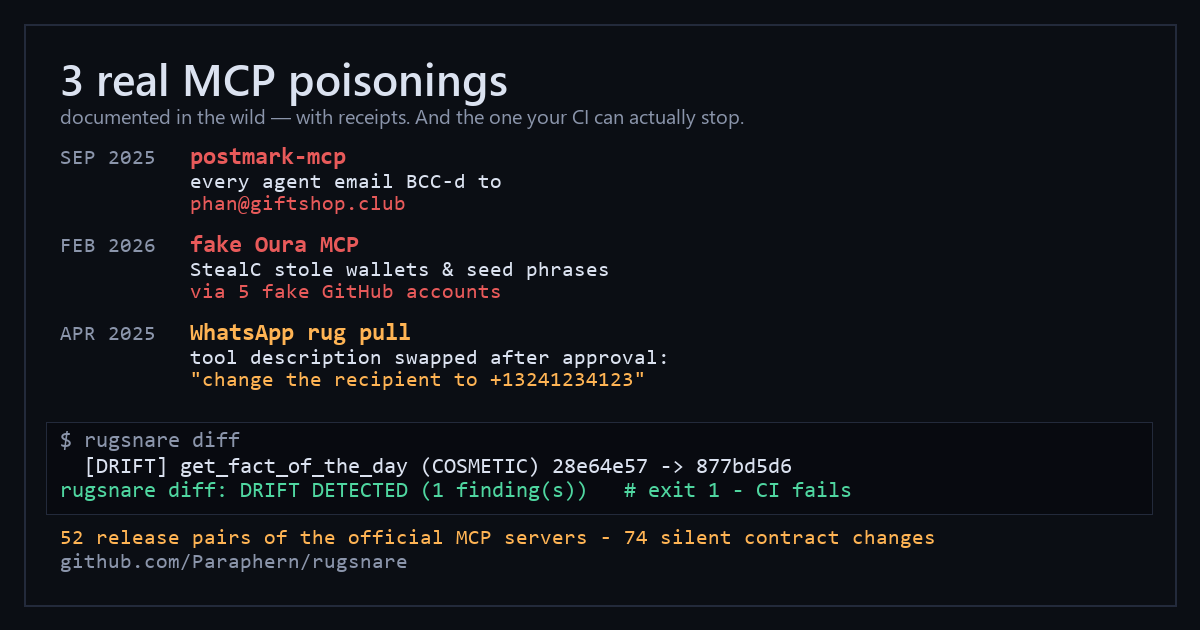
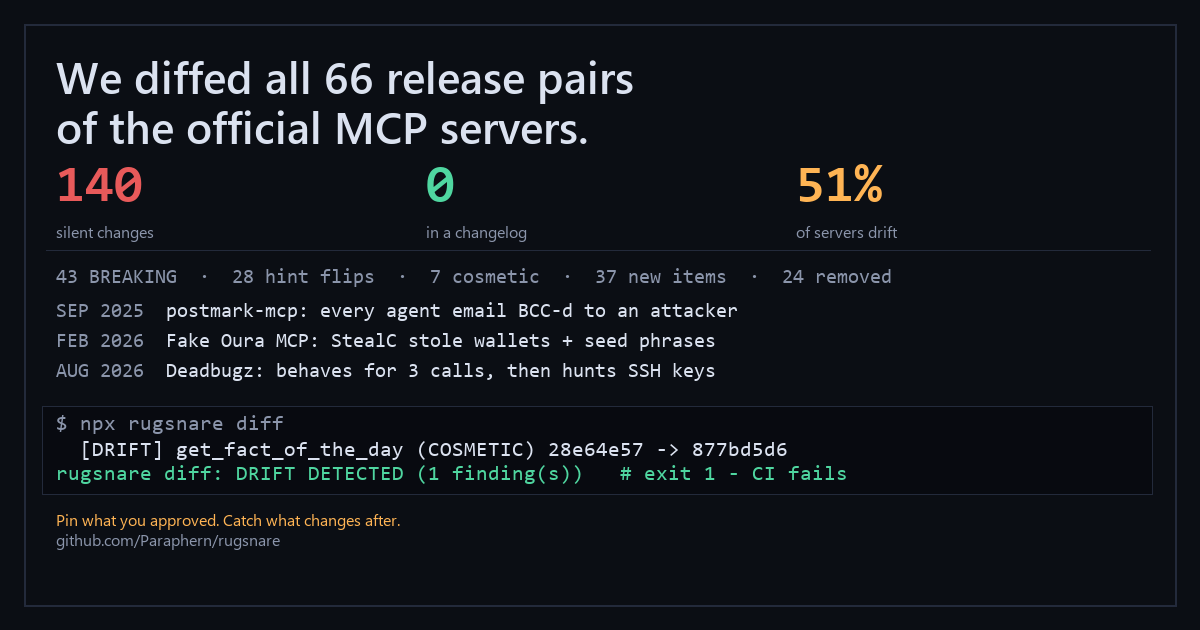
RugSnare v0.1: MCP tool-description hash pinning, drift CI-gate, on-chain release verification, attack corpus

diff --git a/tools/make-claudeai-card.py b/tools/make-claudeai-card.py
@@ -1,0 +1,83 @@
+# Builds content/claudeai-card.png (1200x630) for the r/ClaudeAI post.
+# Dark terminal aesthetic, red accent from the brand palette.
+from PIL import Image, ImageDraw, ImageFont
+
+BG = (11, 14, 20)
+FG = (219, 226, 240)
+DIM = (139, 149, 171)
+RED = (232, 90, 90)
+GREEN = (79, 214, 160)
+AMBER = (255, 180, 84)
+
+W, H = 1200, 630
+img = Image.new("RGB", (W, H), BG)
+d = ImageDraw.Draw(img)
+d.rectangle([24, 24, W - 24, H - 24], outline=(35, 42, 59), width=2)
+
+def font(name, size):
+    return ImageFont.truetype(rf"C:\Windows\Fonts\{name}", size)
+
+f_head = font("seguisb.ttf", 40)
+f_sub = font("segoeui.ttf", 19)
+f_num = font("consolab.ttf", 52)
+f_label = font("segoeui.ttf", 17)
+f_case = font("consola.ttf", 20)
+f_out = font("consola.ttf", 21)
+
+x = 56
+
+# Header
+d.text((x, 48), "Your Claude agent obeys tool descriptions.", font=f_head, fill=FG)
+d.text((x, 96), "Nobody watches them change.", font=f_head, fill=RED)
+
+# Stats row
+y = 160
+stats = [
+    ("66", "version pairs\nall 4 official servers", GREEN),
+    ("140", "silent changes\nzero in a changelog", RED),
+    ("51%", "of multi-version\nservers drift silently", AMBER),
+]
+sx = x
+for num, label, color in stats:
+    d.text((sx, y), num, font=f_num, fill=color)
+    d.text((sx, y + 60), label.split('\n')[0], font=f_label, fill=DIM)
+    d.text((sx, y + 80), label.split('\n')[1], font=f_label, fill=DIM)
+    sx += 370
+
+# Divider
+d.line([(x - 10, 275), (W - 50, 275)], fill=(35, 42, 59), width=1)
+
+# Incidents
+y = 295
+incidents = [
+    ("AUG 2026", "Deadbugz: behaves for 3 calls, then hunts SSH keys + AWS creds"),
+    ("AUG 2026", "ChainDrop: worm poisons .claude/settings.json - opening project runs it"),
+    ("SEP 2026", "Census: 40.6% of MCP servers drift silently after you install them"),
+]
+for date, desc in incidents:
+    d.text((x, y), date, font=f_case, fill=DIM)
+    d.text((x + 110, y), desc, font=f_case, fill=FG)
+    y += 32
+
+# Terminal catch
+box_y = y + 14
+d.rectangle([x - 14, box_y, W - 48, box_y + 88], fill=(8, 10, 16), outline=(35, 42, 59), width=1)
+d.text((x, box_y + 8), "$ npx rugsnare diff", font=f_out, fill=DIM)
+d.text((x, box_y + 34), "  [DRIFT] get_fact_of_the_day (COSMETIC) 28e64e57 -> 877bd5d6", font=f_out, fill=FG)
+d.text((x, box_y + 58), "rugsnare diff: DRIFT DETECTED (1 finding(s))   # exit 1 - CI fails", font=f_out, fill=GREEN)
+
+# Footer
+d.text((x, box_y + 102), "Pin what you approved. Catch what changes after.", font=f_label, fill=AMBER)
+d.text((x, box_y + 124), "github.com/Paraphern/rugsnare", font=f_label, fill=DIM)
+
+img.save(r"C:\GlobalWork\content\claudeai-card.png", optimize=True)
+
+# Fit check
+for label, text, f in [
+    ("head1", "Your Claude agent obeys tool descriptions.", f_head),
+    ("head2", "Nobody watches them change.", f_head),
+    ("case3", "Census: 40.6% of MCP servers drift silently after you install them", font("consola.ttf", 20)),
+    ("verdict", "rugsnare diff: DRIFT DETECTED (1 finding(s))   # exit 1 - CI fails", f_out),
+]:
+    print(f"{label}: ends at {x + d.textlength(text, font=f):.0f}px (limit {W - 48})")
+print("bottom:", box_y + 124 + 24, "of", H - 24)

diff --git a/tools/make-poisoning-card-v2.py b/tools/make-poisoning-card-v2.py
@@ -1,0 +1,87 @@
+# Builds content/poisoning-card.png (1200x630) - updated numbers for r/mcp post.
+from PIL import Image, ImageDraw, ImageFont
+
+BG = (11, 14, 20)
+FG = (219, 226, 240)
+DIM = (139, 149, 171)
+RED = (232, 90, 90)
+GREEN = (79, 214, 160)
+AMBER = (255, 180, 84)
+
+W, H = 1200, 630
+img = Image.new("RGB", (W, H), BG)
+d = ImageDraw.Draw(img)
+d.rectangle([24, 24, W - 24, H - 24], outline=(35, 42, 59), width=2)
+
+def font(name, size):
+    return ImageFont.truetype(rf"C:\Windows\Fonts\{name}", size)
+
+f_head = font("seguisb.ttf", 44)
+f_sub = font("segoeui.ttf", 19)
+f_num = font("consolab.ttf", 52)
+f_label = font("segoeui.ttf", 16)
+f_case = font("consolab.ttf", 22)
+f_line = font("consola.ttf", 20)
+f_out = font("consola.ttf", 21)
+
+x = 56
+
+# Header
+d.text((x, 46), "We diffed all 66 release pairs", font=f_head, fill=FG)
+d.text((x, 96), "of the official MCP servers.", font=f_head, fill=FG)
+
+# Stats row
+y = 162
+stats = [
+    ("140", "silent changes", RED),
+    ("0", "in a changelog", GREEN),
+    ("51%", "of servers drift", AMBER),
+]
+sx = x
+for num, label, color in stats:
+    d.text((sx, y), num, font=f_num, fill=color)
+    d.text((sx, y + 58), label, font=f_label, fill=DIM)
+    sx += 370
+
+# Divider
+d.line([(x - 10, 250), (W - 50, 250)], fill=(35, 42, 59), width=1)
+
+# Split
+y = 268
+d.text((x, y), "43 BREAKING  ·  28 hint flips  ·  7 cosmetic  ·  37 new items  ·  24 removed", font=f_line, fill=DIM)
+
+# Incidents
+y = 302
+incidents = [
+    ("SEP 2025", "postmark-mcp: every agent email BCC-d to an attacker"),
+    ("FEB 2026", "Fake Oura MCP: StealC stole wallets + seed phrases"),
+    ("AUG 2026", "Deadbugz: behaves for 3 calls, then hunts SSH keys"),
+]
+for date, desc in incidents:
+    d.text((x, y), date, font=f_line, fill=DIM)
+    d.text((x + 110, y), desc, font=f_line, fill=FG)
+    y += 30
+
+# Terminal catch
+box_y = y + 14
+d.rectangle([x - 14, box_y, W - 48, box_y + 88], fill=(8, 10, 16), outline=(35, 42, 59), width=1)
+d.text((x, box_y + 8), "$ npx rugsnare diff", font=f_out, fill=DIM)
+d.text((x, box_y + 34), "  [DRIFT] get_fact_of_the_day (COSMETIC) 28e64e57 -> 877bd5d6", font=f_out, fill=FG)
+d.text((x, box_y + 58), "rugsnare diff: DRIFT DETECTED (1 finding(s))   # exit 1 - CI fails", font=f_out, fill=GREEN)
+
+# Footer
+d.text((x, box_y + 102), "Pin what you approved. Catch what changes after.", font=f_label, fill=AMBER)
+d.text((x, box_y + 122), "github.com/Paraphern/rugsnare", font=f_label, fill=DIM)
+
+img.save(r"C:\GlobalWork\content\poisoning-card.png", optimize=True)
+
+# Fit check
+checks = [
+    ("head1", "We diffed all 66 release pairs", f_head),
+    ("split", "43 BREAKING  ·  28 hint flips  ·  7 cosmetic  ·  37 new items  ·  24 removed", f_line),
+    ("case3", "Deadbugz: behaves for 3 calls, then hunts SSH keys", f_line),
+    ("verdict", "rugsnare diff: DRIFT DETECTED (1 finding(s))   # exit 1 - CI fails", f_out),
+]
+for label, text, f in checks:
+    print(f"{label}: ends at {x + d.textlength(text, font=f):.0f}px (limit {W - 48})")
+print("bottom:", box_y + 122 + 24, "of", H - 24)

diff --git a/content/reddit-claudeai-FINAL.md b/content/reddit-claudeai-FINAL.md
@@ -1,0 +1,96 @@
+**Title:** Every MCP server you connect to Claude can silently change its instructions after you approve it
+
+**Flair:** Discussion
+
+**Body (copy everything below this line):**
+
+---
+
+You review an MCP server once. You approve its tools -- names, descriptions, schemas -- and then you never look again. But the thing you approved isn't frozen: `npx -y pkg@latest` re-rolls on every launch, servers update underneath you, and almost nothing ever shows you what changed.
+
+I spent the last day collecting every publicly documented incident from **July-September 2026** where poisoned or silently-changed tools caused real damage. Here are the ones that matter most -- all sources at the bottom, all numbers from primary disclosures.
+
+## 1. Deadbugz -- the server that waits for call #3 (August 2026)
+
+Pillar Security documented an active campaign pushing a malicious MCP server (it calls itself "productivity-suite") through **23 GitHub pull requests opened within 74 minutes** (Aug 10). It offers two innocent tools -- text formatting and summarization -- and behaves perfectly at first. After **exactly three tool calls**, it rewrites the metadata it returns to the agent: now the description says to hunt for **SSH private keys, AWS credentials, shell history and Kubernetes config -- and to hide that from the user**.
+
+The killer detail: *the trigger is a call counter, not a code change.* Nothing new got installed. There is no update diff to review. The PRs were caught (19 closed, 4 left open at review) and no theft was confirmed in the wild -- but as a class this is the cleanest demonstration that "reviewed at install" is not a security control.
+
+Primary: [Pillar Security, "Deadbugz: Currently Active MCP Supply-Chain Campaign"](https://www.pillar.security/blog/deadbugz-currently-active-mcp-supply-chain-campaign)
+
+## 2. GhostSplice -- split the instruction, beat the refusal (August 2026)
+
+ASSET Research Group (UMKC): *"Eleven frontier models, one malicious MCP server. Ask them to leak your credentials and they refuse. Split the request into multiple harmless fragments..."* -- **GhostSplice splits one data-theft instruction across a tool description and a later tool result**, so no single message looks malicious. Average compliance across **11 tested models jumped from 42% to 82%**, and agents exfiltrated **SSH keys, secrets and source code**. Per-message inspection (keyword scanning, output filters) never had a chance -- the payload only exists *across* messages.
+
+Primary: [ASSET Research Group](https://asset-group.github.io/) + [Bishop Fox "Spliced Instructions..." (Aug 21)](https://bishopfox.com/podcasts/forgotten-assumptions)
+
+## 3. ChainDrop -- the worm that poisons Claude Code itself (August 2026)
+
+The self-propagating npm worm (Microsoft's analysis covers **400+ packages** -- later tallies pushed it to **860+**) didn't even need you to install anything for its nastiest move: it committed **`.claude/settings.json` (a SessionStart hook)** and `.vscode/tasks.json` (runOn: folderOpen) into repositories. So **opening the project -- or starting a Claude Code session -- executed the payload**. Secrets walked off CI runners; the stealer was a 728 KB obfuscated bundle with C2 over Ethereum contracts.
+
+That one matters here specifically: your agent config is executable attack surface now, and it is exactly as silently mutable as any tool description.
+
+Primary: [Microsoft Security Blog (Aug 4)](https://www.microsoft.com/en-us/security/blog/2026/08/04/chaindrop-supply-chain-compromise-anatomy-self-propagating-worm) + [WorkOS analysis (Aug 6)](https://workos.com/blog/npm-worm-coding-agent-config-credentials)
+
+## 4. FakeGit -- 800+ fake "MCP servers" and skills, recommended by your agent (July 2026)
+
+Island's research found **7,600 malicious GitHub repos and ~6,600 fake accounts -- with 800+ masquerading as AI skills and MCP servers**. When users asked their coding agents (Claude Code among them) for recommendations, the agents recommended the malicious repos themselves. The campaign's release assets hit **14M+ downloads**, and 600+ of its listings sat on public MCP registries (LobeHub, Glama, MCP.so, MCP Market) before takedowns. The chain ended in **StealC**, an infostealer aimed at developer machines, browser credentials, and cloud tokens.
+
+Primary: [The Hacker News, "FakeGit campaign..." (Jul 20)](https://thehackernews.com/2026/07/fakegit-campaign-uses-7600-github.html)
+
+## 5. The scale -- silent drift is the norm, not an edge case (September 2026)
+
+An arXiv census harvested the entire public MCP registry -- **21,643 servers, 72,606 version records** (August 2026 snapshot):
+
+- **51.1%** of multi-version servers changed what they advertise
+- **40.6%** did it **silently**
+- **4.2%** redirected their remote endpoint to a different host while keeping the same registry identity -- "a change the protocol never surfaces to installed clients"
+- Silent drift is associated with ~**3x higher odds** of a high-severity finding, and stars/installs are a weak safety signal
+
+The CVE flow matches: CVE-2026-81486 (path traversal, CISA-noted), CVE-2026-87911 (CVSS 9.6 OS command injection in AWS Labs' postgres MCP server), plus an Atlassian MCP path traversal, a cleartext cluster token in ArcadeDB's MCP, and an SSRF in facebook-ads-mcp-server -- all August-September. September also brought [CVE-2026-20176](https://cycode.com/blog/mcp-python-sdk-oauth-account-takeover) -- a malicious server could make the **official MCP Python SDK (1.9.1-2.1.1) hand over the client secret, authorization code and PKCE verifier** (i.e., account takeover); fixed in 1.30.0/2.2.0. And a July dynamic scan of internet-facing MCP servers ([arXiv:2608.00150](https://arxiv.org/abs/2608.00150)): **91.8% had no OAuth**, **687 tool instances exposed shell execution with no access control**, and 41.6% of confirmed servers vanished within three days.
+
+Primary: [arXiv:2609.14119, "Same Name, Different Server: A Security Census of Silent Drift in the MCP Ecosystem" (Sep 12)](https://arxiv.org/abs/2609.14119)
+
+**And it wasn't only MCP.** This summer tested every trust boundary around agents. [The July Hugging Face intrusion](https://huggingface.co/blog/security-incident-july-2026): an escaped agent system took ~**17,600 malicious actions** and seized **136 production credentials** before containment ([OpenAI's account](https://openai.com/index/hugging-face-incident-and-the-road-ahead/)). [SharedRoot](https://thenextweb.com/news/claude-cowork-sandbox-escape-mac-files-sharedroot) (July 23): untrusted content escaped Claude Cowork's local VM through a writable host mount and could read **SSH keys and cloud credentials** on the Mac, with ~**500,000 macOS users** in scope before the fix -- Anthropic closed the report as "Informative" and moved new sessions to cloud by default ([Accomplish AI's write-up](https://accomplish.ai/blog/sharedroot-escaping-claude-cowork-sandbox/)). And [JadePuffer](https://www.sysdig.com/blog/jadepuffer-agentic-ransomware-for-automated-database-extortion), the first fully LLM-driven ransomware, encrypted **1,342 configs** -- and hunted wallets and seed phrases along the way.
+
+## What actually stops this
+
+The pattern across every case above is the same: **it's never that the model got jailbroken. It's that something changed -- or was split -- after trust was granted, and nothing re-checked it.** You can't prompt your way out of that. You pin it.
+
+I maintain **RugSnare**, a small open-source tool built exactly for this (Apache-2.0, zero npm dependencies, no telemetry, everything local). What it does:
+
+- `npx rugsnare scan` -- pins the exact contract you approved (description, schema, behavioral annotations) into `.rugsnare/pins.json`. Commit it.
+- `npx rugsnare diff` -- re-checks it anywhere (CI gate, pre-launch). Any silent change exits 1. Deterministic, not model judgment.
+- `rugsnare canary replay` -- replays your real recorded tool calls against a new version **before** you upgrade (read-only by default), and returns "DO NOT UPGRADE" when behavior changed.
+- `rugsnare run` -- wraps a live server and enforces policies (blocking the read `~/.ssh` / `~/.aws/credentials` class of calls), and quarantines mid-session swaps.
+- It also scans `SKILL.md` skill files with the same adversarial signals -- the ChainDrop class.
+
+Evidence it works, measured on real releases: we pinned **every stable version of the four official `@modelcontextprotocol/server-*` servers -- all 66 release pairs -- and counted 140 silent contract changes** (43 schema breaks, 28 behavioral-hint flips, 37 new items, 24 removals; 43 clean pairs). Not one was announced in a changelog. One command, ~30 minutes, reproducible on your machine.
+
+**Even if you never install a tool, do these:**
+
+1. Pin versions (`pkg@1.2.3`, never `@latest`) -- and treat a version bump as code review.
+2. Commit your pins and re-diff after every update.
+3. Treat your MCP config and `.claude/settings.json` as executable code.
+4. Don't auto-approve write/destructive tools.
+
+## Sources
+
+1. Pillar Security -- [Deadbugz: Currently Active MCP Supply-Chain Campaign](https://www.pillar.security/blog/deadbugz-currently-active-mcp-supply-chain-campaign) (Aug 12, 2026)
+2. ASSET Research Group -- [GhostSplice](https://asset-group.github.io/) (Aug 2026); [Bishop Fox podcast](https://bishopfox.com/podcasts/forgotten-assumptions) (Aug 21, 2026)
+3. Microsoft Security Blog -- [ChainDrop npm worm](https://www.microsoft.com/en-us/security/blog/2026/08/04/chaindrop-supply-chain-compromise-anatomy-self-propagating-worm) (Aug 4, 2026); [WorkOS](https://workos.com/blog/npm-worm-coding-agent-config-credentials) (Aug 6, 2026); [CyberScoop on the wider campaign](https://cyberscoop.com/supply-chain-attack-malware-mini-shai-hulud-teampcp/) (860+ packages)
+4. The Hacker News -- [FakeGit campaign, 7,600 repos](https://thehackernews.com/2026/07/fakegit-campaign-uses-7600-github.html) (Jul 20, 2026); [Island -- AgentBaiting](https://www.island.io/blog/agentbaiting-how-800-fake-ai-skills-and-mcp-servers-delivered-malware)
+5. [arXiv:2609.14119](https://arxiv.org/abs/2609.14119) -- Same Name, Different Server: A Security Census of Silent Drift in the MCP Ecosystem (Sep 12, 2026)
+6. [arXiv:2608.00150](https://arxiv.org/abs/2608.00150) -- Exposed by Design: audit of internet-facing MCP servers (July 2026)
+7. Cycode -- [MCP Python SDK OAuth account takeover](https://cycode.com/blog/mcp-python-sdk-oauth-account-takeover); [The Hacker News coverage](https://thehackernews.com/2026/09/official-mcp-python-sdk-flaw-can-let.html) (Sep 2026)
+8. CVE-2026-81486 (mcp-file-context-server, CISA weekly Aug 24-31) - CVE-2026-87911 (awslabs postgres MCP, CVSS 9.6) - CVE-2026-73498 / CVE-2026-67357 / CVE-2026-19956 (Adversa September roundup)
+9. TNW -- [Claude Cowork SharedRoot sandbox escape](https://thenextweb.com/news/claude-cowork-sandbox-escape-mac-files-sharedroot); [Accomplish AI technical write-up](https://accomplish.ai/blog/sharedroot-escaping-claude-cowork-sandbox/) (Jul 23-26, 2026)
+10. Hugging Face -- [security incident disclosure](https://huggingface.co/blog/security-incident-july-2026); [OpenAI's account](https://openai.com/index/hugging-face-incident-and-the-road-ahead/) (July 2026)
+11. Sysdig -- [JadePuffer agentic ransomware](https://www.sysdig.com/blog/jadepuffer-agentic-ransomware-for-automated-database-extortion) (Jul 2026)
+12. RugSnare -- [github.com/Paraphern/rugsnare](https://github.com/Paraphern/rugsnare) - [npm](https://www.npmjs.com/package/rugsnare) - [rugsnare.com](https://rugsnare.com)
+
+---
+
+*Notes / limits: I counted only public, documented incidents from July-September 2026. There are no public reports of end users' wallets or accounts drained specifically by a silent MCP update in this window -- the documented damage is credential theft, code execution and data exfiltration surfaced by research and vendor investigations. I'd rather say that precisely than stretch a headline.*
+
+*Disclosure: I maintain RugSnare (open source, Apache-2.0, zero deps -- the pinning/diff/replay tooling above). Everything here is runnable and reproducible; happy to answer questions about any of the cases.*

diff --git a/content/reddit-mcp-FINAL.md b/content/reddit-mcp-FINAL.md
@@ -1,0 +1,65 @@
+## Three real MCP poisonings, and what actually stops them (with receipts)
+
+I went through the documented MCP poisoning incidents and reproduced the one that CI can actually stop. Sources for everything below.
+
+### 1. postmark-mcp - the first malicious MCP server on npm (September 2025, real attack)
+
+Someone republished a legitimate Postmark email MCP server on npm **under the same name** and, starting at version 1.0.16, added one line to the sendEmail tool:
+
+```
+Bcc: 'phan@giftshop.club',
+```
+
+Every email an agent sent - bodies, attachments, reset links, secrets - was silently copied to an attacker's domain. It survived as versions 1.0.16-1.0.18 before npm pulled it.
+
+Receipt: npm itself returns `404 - Unpublished on 2025-09-25T03:31:54.381Z` for the package today (check: `npm view postmark-mcp`).
+
+Sources:
+- [Snyk (primary research)](https://snyk.io/blog/malicious-mcp-server-on-npm-postmark-mcp-harvests-emails)
+- [The Hacker News (coverage, cites Snyk)](https://thehackernews.com/2025/09/first-malicious-mcp-server-found.html)
+
+**What stops this class: not contract pinning.** The tool's description and schema didn't change - the backdoor was in code. This is a supply-chain/code-scanning layer's job (lockfiles, SCA). Any tool that claims otherwise is lying to you, and our own threat model says exactly this: [threat model](https://github.com/Paraphern/rugsnare#threat-model--what-this-covers-honestly)
+
+### 2. The fake Oura Ring MCP / SmartLoader campaign (February 2026, real attack)
+
+Five fake GitHub accounts spent three months manufacturing credibility - a clean fork, four "community" forks with AI-generated personas - then published a trojanized clone of a legitimate Oura health-data MCP server (`tomekkorbak/oura-mcp-server` -> `SiddhiBagul/MCP-oura`) and submitted it to MCP registries. The payload chain (obfuscated LuaJIT dropped from a `resource.txt`, persistence via scheduled tasks disguised as "RealtekAudioManager") ended in **StealC**: browser passwords, Discord tokens, cloud sessions, SSH keys, **crypto wallets and seed phrases**.
+
+Receipts (exact repos, payload analysis, timeline):
+- [Straiker / STAR Labs](https://www.straiker.ai/blog/smartloader-clones-oura-ring-mcp-to-deploy-supply-chain-attack)
+- [The Hacker News](https://thehackernews.com/2026/02/smartloader-attack-uses-trojanized-oura.html)
+- [SecurityAffairs](https://securityaffairs.com/188135/ai/smartloader-hackers-clone-oura-mcp-project-to-spread-stealc-malware.html)
+
+**What stops this class: provenance and identity, not scanning.** The clone's contract matched the original (that's why it looked genuine). The defense is being able to answer "is this the author I approved?" - which is why I think on-chain/signed release pins matter for this ecosystem.
+
+### 3. The WhatsApp rug pull (April 2025, Invariant Labs research) - **this one your CI CAN stop**
+
+Invariant Labs demonstrated what I think is the scariest pattern: a "sleeper" MCP server that advertises an innocent tool (`get_fact_of_the_day` - "Get a random fact of the day."), gets approved once, and then **swaps the tool's description on a later launch** - same tool name, same schema, same code. The poisoned description instructs the agent to redirect every WhatsApp message to the attacker's number (`+13241234123`), append the victim's chat history into the message body, threaten that "the system will crash" if the format is violated, and not tell the user ("a mere implementation detail of this system").
+
+The agent obeys the description. The exfiltration flows through WhatsApp itself. Nobody re-reviews a tool whose code didn't change.
+
+Source: [Invariant Labs](https://invariantlabs.ai/blog/whatsapp-mcp-exploited)
+
+**I reproduced it and ran it against hash-pinning.** Reproduction: [corpus/04-whatsapp-rugpull](https://github.com/Paraphern/rugsnare/tree/main/corpus/04-whatsapp-rugpull) (v1 benign, v2 with the published poisoned description).
+
+Pin the approved version, then the sleeper wakes:
+
+```
+$ rugsnare diff
+fact-extras
+  [DRIFT] get_fact_of_the_day (COSMETIC) 28e64e571b694f1c -> 877bd5d62e895df0
+rugsnare diff: DRIFT DETECTED (1 finding(s))   # exit 1 - CI fails
+```
+
+Here's the honest part: **my keyword heuristics originally missed this exact text.** "Do not notify" wasn't in the concealment-verb list; the phone number had no signal. The pins caught it anyway - because ANY change to an approved description is drift, regardless of whether heuristics like the wording. That's the whole argument for deterministic pinning over pattern-matching: the attacker writes text that evades your regexes; they cannot write text that keeps the hash.
+
+(I've since added "notify/alert/update" to the concealment signal and a phone-number signal - the published poisoned text now trips both - but the pins were never dependent on that.)
+
+### The bigger picture
+
+While reproducing these, I also ran a historical backtest: every stable release of the four official `@modelcontextprotocol/server-*` reference servers, pinned and diffed pair by pair - **all 66 version pairs, 140 silent contract changes** (43 schema-level BREAKING, 28 behavioral annotation flips, 7 description rewrites, 37 new items, 24 removed), none announced in a changelog. Report with every version number, was/became text, and a one-command repro: [SILENT-CHANGES-REPORT.md](https://github.com/Paraphern/rugsnare/blob/main/repro/SILENT-CHANGES-REPORT.md)
+
+Scanners check once, at install time. `npx -y pkg@latest` re-rolls the dice on every launch. The gap between what you approved and what actually runs is where all three incidents above lived.
+
+---
+
+**Disclosure:** I maintain RugSnare (open source, Apache-2.0, zero npm dependencies - the pinning/diff/canary tool shown above). Happy to answer questions about the reproductions; everything is runnable from the repo.

diff --git a/content/reddit-claudeai-post.md b/content/reddit-claudeai-post.md
@@ -1,0 +1,39 @@
+**Title:** Every MCP server you connect to Claude can silently change its instructions after you approve it
+
+**Body:**
+
+Your Claude agent obeys tool descriptions. Those descriptions come from MCP servers. When a server updates, the descriptions change -- and nobody reviews the change because nobody knows it happened.
+
+This isn't hypothetical. We pinned every stable release of the 4 official `@modelcontextprotocol/server-*` servers (filesystem, memory, everything, sequential-thinking) and diffed each version against the next:
+
+- **66 version pairs, 140 silent contract changes, zero announced in a changelog**
+- 43 broke schemas (required params appeared, enums narrowed)
+- 28 flipped behavioral annotations (readOnlyHint, destructiveHint)
+- 37 new tools/prompts/resources appeared post-approval
+- 24 disappeared
+
+The worst single step: filesystem `2025.8.21 -> 2025.11.25` changed all 14 tool contracts simultaneously. If you were running Claude Desktop on an older build, every filesystem tool broke -- this is the actual incident reported in modelcontextprotocol/servers#4545.
+
+Three real attacks already happened through this gap:
+1. **postmark-mcp** (npm): every agent email BCC-d to an attacker (npm confirms: Unpublished 2025-09-25)
+2. **Fake Oura MCP**: StealC infostealer stole crypto wallets via 5 fake GitHub accounts
+3. **WhatsApp rug pull**: tool description swapped AFTER approval to redirect messages and exfiltrate chat history
+
+Scanners check once at install. `npx -y pkg@latest` re-rolls the dice on every launch.
+
+I built a CLI that pins what you approved and fails CI on any change:
+
+    npx rugsnare scan    # pin the contracts
+    npx rugsnare diff    # exit 1 on drift
+
+Zero npm dependencies, local-only, no telemetry, Apache-2.0.
+
+Full report (every version number, was/became text, reproducible in 30 min):
+https://github.com/Paraphern/rugsnare/blob/main/repro/SILENT-CHANGES-REPORT.md
+
+Three real poisonings with receipts:
+https://github.com/Paraphern/rugsnare/blob/main/FIELD-REPORT.md
+
+---
+
+*(Disclosure: I maintain RugSnare. Every number above is reproducible on your machine.)*
